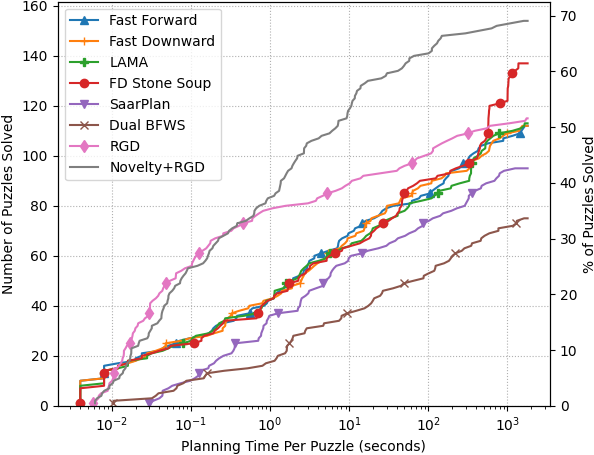
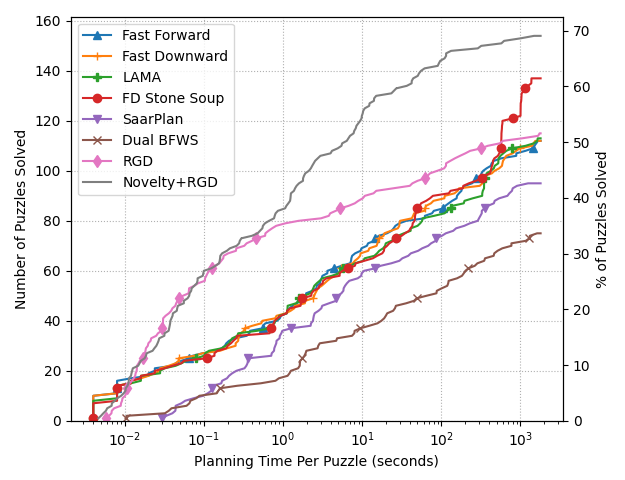
Update novelty+rgd results

diff --git a/index.html b/index.html
@@ -53,7 +53,7 @@
 
 <div class="section">
   <div class="title">Play PushWorld</div>
-  Here you can play all puzzles in the PushWorld benchmark.
+  Here you can play all puzzles in the PushWorld benchmark. All puzzles are solvable.
 
   <div class="pushworld_puzzles">
     <div class="select_puzzle_group panel">
@@ -342,7 +342,7 @@
     <li><span><b>Novelty+RGD</b> is a greedy best-first search with a lexicographic heuristic that combines the novelty heuristic with the RGD heuristic, prioritizing novelty.</span></li>
   </ul>
 
-  The plot below shows how many puzzles each planner solves within a given time per puzzle. Novelty+RGD solves the most puzzles (69.1%) within 30 minutes per puzzle, followed by FDSS (61.4%). Notably, Novelty+RGD solves as many puzzles in 52 seconds as FDSS solves in 30 minutes.
+  The plot below shows how many puzzles each planner solves within a given time per puzzle. Novelty+RGD solves the most puzzles (69.1%) within 30 minutes per puzzle, followed by FDSS (61.4%). Notably, Novelty+RGD solves as many puzzles in 45 seconds as FDSS solves in 30 minutes, which amounts to a 40x speed improvement.
 
   <img class="classical-results-large" src="images/classical-planner-results-large.png" alt="Classical Planning Results" width="100%"/>
   <img class="classical-results-medium" src="images/classical-planner-results-medium.png" alt="Classical Planning Results" width="100%"/>
